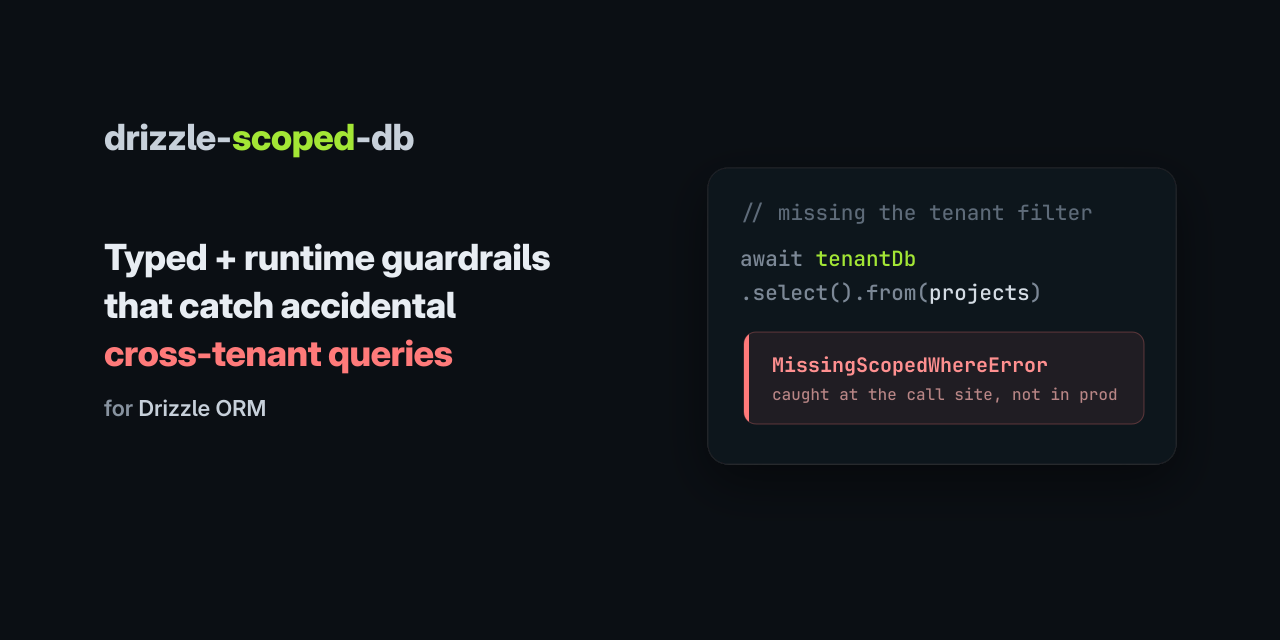
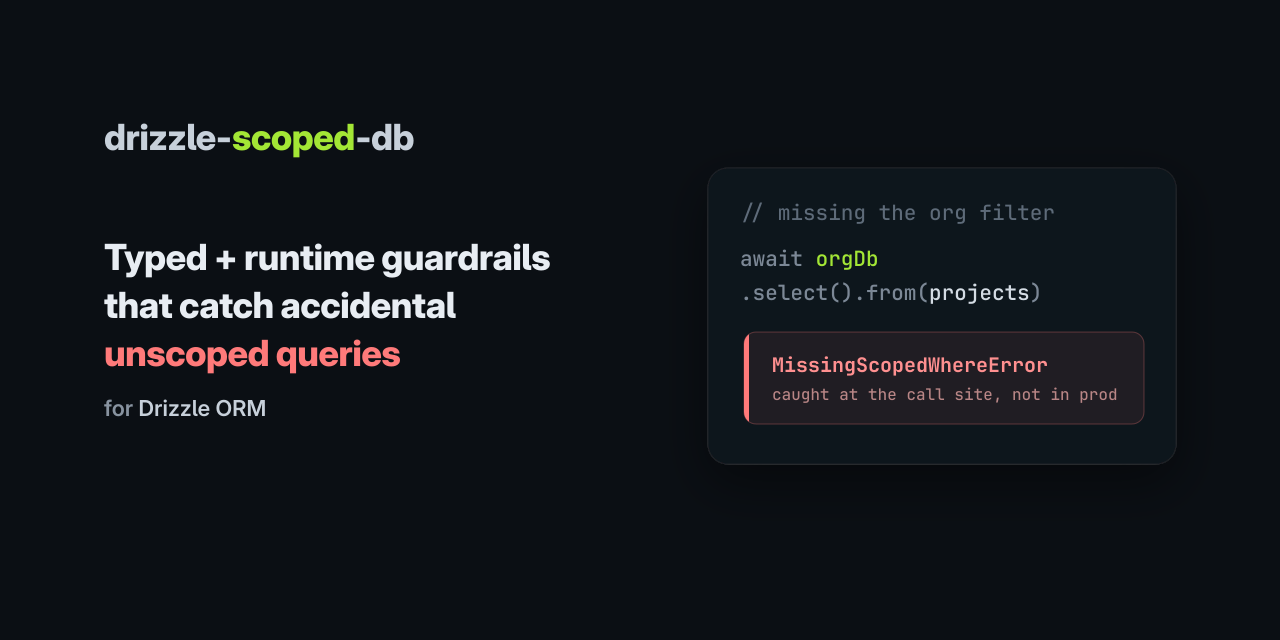
docs: generalize scoping language beyond tenancy
The guardrail works for any required query predicate, not just tenant
isolation — so lead with that framing while keeping the tenant leak as
the visceral example.

- README: generalize the intro (`orgDb`, "any predicate a query must
  never forget"), add a "Beyond tenancy" section (user, region,
  soft-delete, visibility, ACLs), and embed the before/after diagram.
- assets: add before-after.{svg,png} (1600x900); update the social
  preview card to match — `orgDb` and "unscoped queries" instead of
  `tenantDb` / "cross-tenant queries".
- Document the new asset and changes in assets/README.md and CHANGELOG.

Changed region(s): [[0.0625, 0.5312, 0.375, 0.5938], [0.625, 0.375, 0.7188, 0.4375], [0.7188, 0.3125, 0.8438, 0.3438]]

diff --git a/README.md b/README.md
@@ -7,7 +7,11 @@
 
 **One forgotten `WHERE tenant_id = ...` leaks another tenant's rows. `drizzle-scoped-db` makes that mistake throw instead of ship.**
 
-It wraps a Drizzle ORM handle in a typed, tenant-scoped one (`tenantDb`, `workspaceDb`, `organizationDb`). The tenant boundary stays visible in TypeScript, scope predicates are injected into your queries automatically, and in strict mode any scoped query that forgets the tenant predicate fails loudly — at the call site, before it reaches the database.
+<p align="center">
+  <img src="./assets/before-after.png" width="820" alt="With a plain Drizzle handle a forgotten org filter silently returns every org's rows; with a drizzle-scoped-db handle the same query throws MissingScopedWhereError, caught before it ships." />
+</p>
+
+It wraps a Drizzle ORM handle in a typed, **scoped** one (`orgDb`, `tenantDb`, `workspaceDb`). Multi-tenancy is the headline use, but the same guardrail fits **any predicate a query must never forget** — org, user, region, soft-delete. The scope boundary stays visible in TypeScript, scope predicates are injected into your queries automatically, and in strict mode any scoped query that forgets its predicate fails loudly — at the call site, before it reaches the database.
 
 ```ts
 // Throws MissingScopedWhereError — never silently returns every tenant's projects
@@ -45,6 +49,18 @@ RLS gives you a boundary the application can't bypass — but it lives in the da
 - Inject scope predicates into supported selects, joins, mutations, and relational root queries.
 - Validate scoped inserts before they reach the database.
 - Catch missing predicates in human-written, generated, or agent-authored code.
+
+## Beyond tenancy
+
+Tenancy is the headline use, but `drizzle-scoped-db` is really a guardrail for **any predicate a query must never forget**. The scope is whatever you express as a Drizzle `where`:
+
+- **Per-user data** — force `user_id = currentUser` on private rows (a `userDb` instead of `orgDb`).
+- **Region / data residency** — keep `region = 'eu'` on every query.
+- **Soft deletes** — always exclude deleted rows with `isNull(table.deletedAt)` via [`defineScopedTable`](#custom-scope-rules).
+- **Visibility** — a read handle that injects `published = true`, so public endpoints never surface drafts.
+- **Row-level ACLs** — a composite predicate such as `owner_id = me OR shared_with ∋ me`.
+
+The same boundaries apply as for tenancy: it guards tables with rules, on the wrapped handle, in application code — it is not a database-enforced boundary. See [Security model](#security-model).
 
 ## How this relates to RLS
 

diff --git a/CHANGELOG.md b/CHANGELOG.md
@@ -7,6 +7,7 @@ All notable user-visible changes to this project are documented in this file.
 ### Added
 
 - Add repository social preview artwork for Open Graph/Twitter cards.
+- Add a before/after diagram (`assets/before-after.png`) illustrating a forgotten scope filter, embedded in the README.
 - Add release benchmark snapshots and a release workflow gate for performance and heap-growth regressions.
 - Inject scope predicates for joined tables with declared rules in select query builders.
 
@@ -15,6 +16,7 @@ All notable user-visible changes to this project are documented in this file.
 - Add Drizzle ORM 1.0 release candidate peer dependency support and CI compatibility checks.
 - Expand README and security policy guidance around guardrails, RLS, schema requirements, and tenant-safe data models.
 - Lead the README with a pain-focused hook, a TL;DR, badges, and a "Where this fits" positioning table comparing app-layer scoping against RLS, schema-per-tenant, proxy, and DB-vendor approaches.
+- Generalize positioning beyond multi-tenancy: present scoping as a guardrail for any required query predicate (org, user, region, soft-delete) and add a "Beyond tenancy" README section.
 - Reframe RLS guidance to present app-layer scoping as a legitimate primary strategy (loud failures, dialect-generic) rather than a complement, noting RLS's documented operational trade-offs and Postgres-only scope.
 - Make strict mode the default and allow opting out with `strict: false`.
 

diff --git a/assets/README.md b/assets/README.md
@@ -10,3 +10,12 @@ After editing the SVG, regenerate the PNG with:
 ```bash
 magick -background none assets/social-preview.svg assets/social-preview.png
 ```
+
+## Before / after diagram
+
+- `before-after.svg` is the editable source.
+- `before-after.png` is the 1600×900 raster export used in the README and for social/tweet promotion. It contrasts a plain Drizzle handle (a forgotten scope filter leaks silently) with a `drizzle-scoped-db` handle (the same query throws).
+
+```bash
+magick -background none assets/before-after.svg assets/before-after.png
+```
